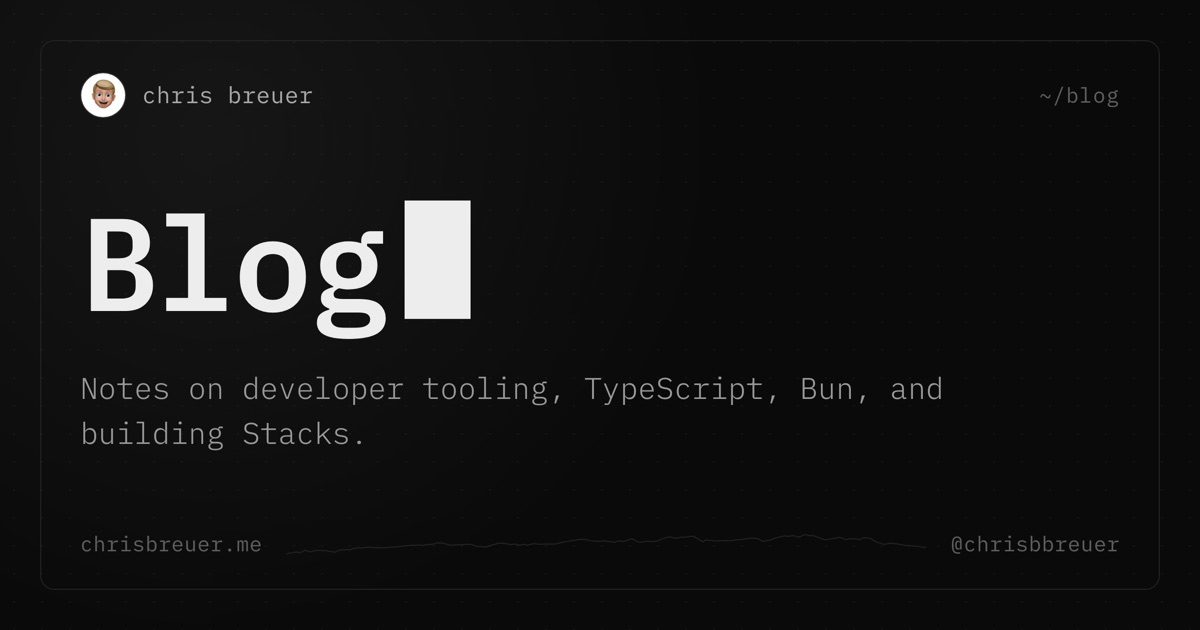
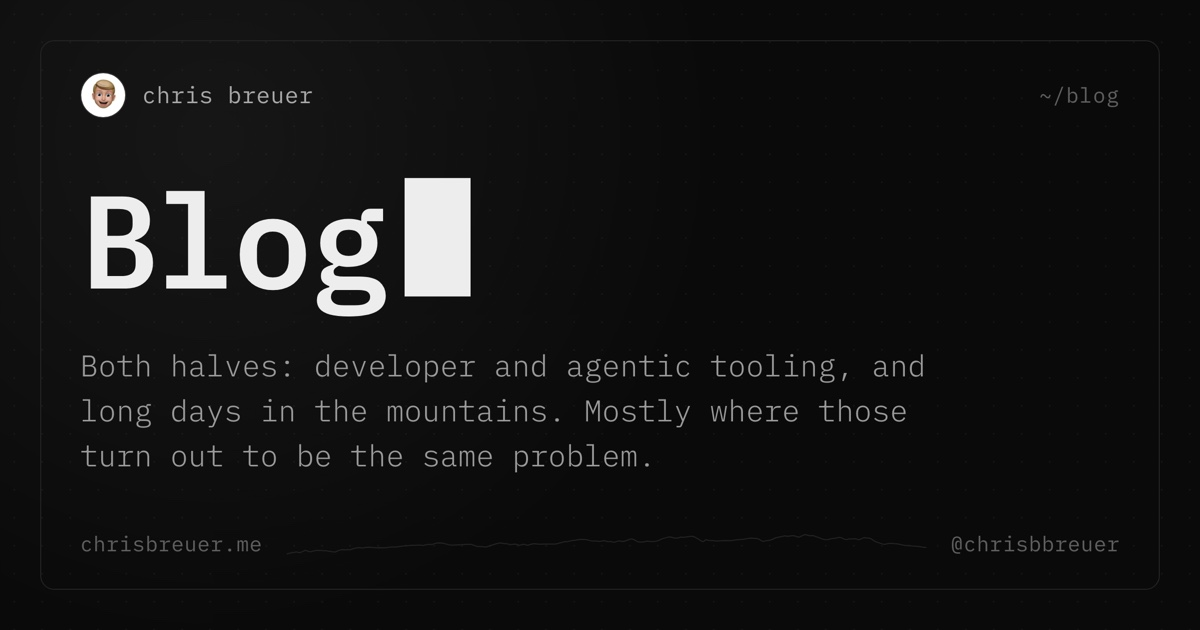
feat(og): bring every share card up to date with its page
Re-rendered all eight cards from scripts/build-og.ts, with three
descriptions that had fallen behind their pages:

- about: agentic tooling, steep trails, and the dogs, as the page says now
- goals: npm downloads, and Stacks v1.0, which the page lists
- blog: the "both halves" framing the page opens with

Apps, projects, uses, home and the Both Halves post card keep their text
and are re-rendered so every card comes from the current generator.

Changed region(s): [[0.0617, 0.573, 0.8017, 0.754], [0.0617, 0.3016, 0.4008, 0.5429], [0.3392, 0.2714, 0.4008, 0.3317]]

diff --git a/scripts/build-og.ts b/scripts/build-og.ts
@@ -26,7 +26,7 @@ const cards: Card[] = [
     slug: 'about',
     path: '~/about',
     title: 'About',
-    desc: 'Obsessed with developer tooling and long days in the mountains. Los Angeles based.',
+    desc: 'Obsessed with developer and agentic tooling, and steep trails. Los Angeles based, usually on a trail with the dogs.',
   },
   {
     slug: 'apps',
@@ -38,7 +38,7 @@ const cards: Card[] = [
     slug: 'goals',
     path: '~/goals',
     title: 'Goals',
-    desc: 'A billion downloads a month, an open unicorn, the Pacific Crest Trail, and every US national park.',
+    desc: 'A billion npm downloads a month, an open unicorn, Stacks v1.0, the Pacific Crest Trail, and every US national park.',
   },
   {
     slug: 'projects',
@@ -56,7 +56,7 @@ const cards: Card[] = [
     slug: 'blog',
     path: '~/blog',
     title: 'Blog',
-    desc: 'Notes on developer tooling, TypeScript, Bun, and building Stacks.',
+    desc: 'Both halves: developer and agentic tooling, and long days in the mountains. Mostly where those turn out to be the same problem.',
   },
 ]
 
